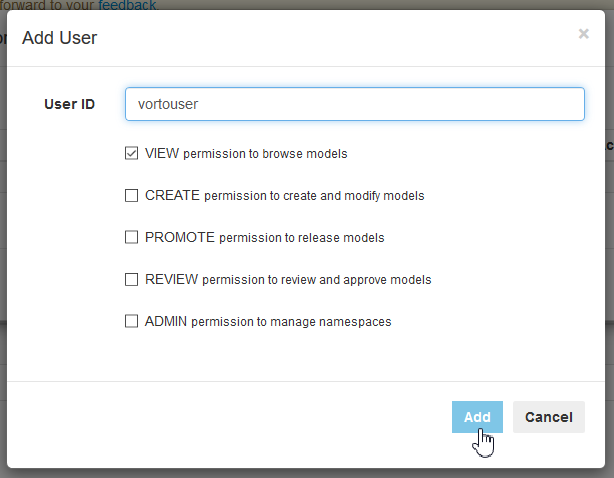
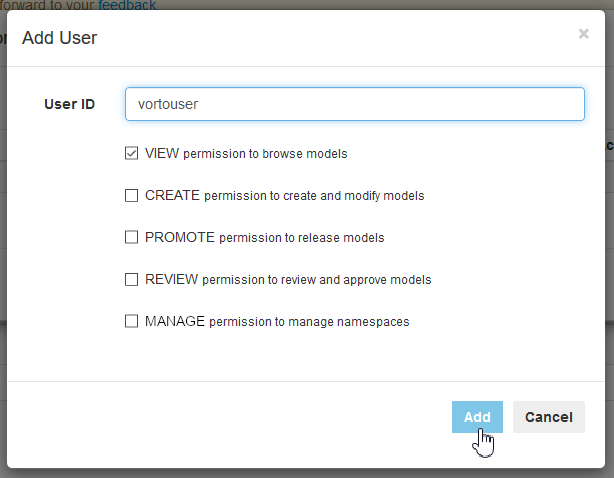
update img for collab mgmt

Changed region(s): [[0.2166, 0.6444, 0.6808, 0.7029]]

diff --git a/docs/tutorials/managing_collaborators.md b/docs/tutorials/managing_collaborators.md
@@ -30,7 +30,7 @@ Each Role gives the collaborator permissions for specific actions for the accord
 ## Roles
 Each Role provides collaborators with specific permissions for the according namespace.
 
-|                           | VIEW | CREATE |  PROMOTE | REVIEW | PUBLISH | ADMIN |
+|                           | VIEW | CREATE |  PROMOTE | REVIEW | PUBLISH | MANAGE |
 |---------------------------|------|--------|----------|--------|---------|-------|
 | View Models               | ✔    | ✔      | ✔        | ✔      | ✔       | ✔     |
 | Create Models             | ✘    | ✔      | ✘        | ✘      | ✘       | ✘     |
